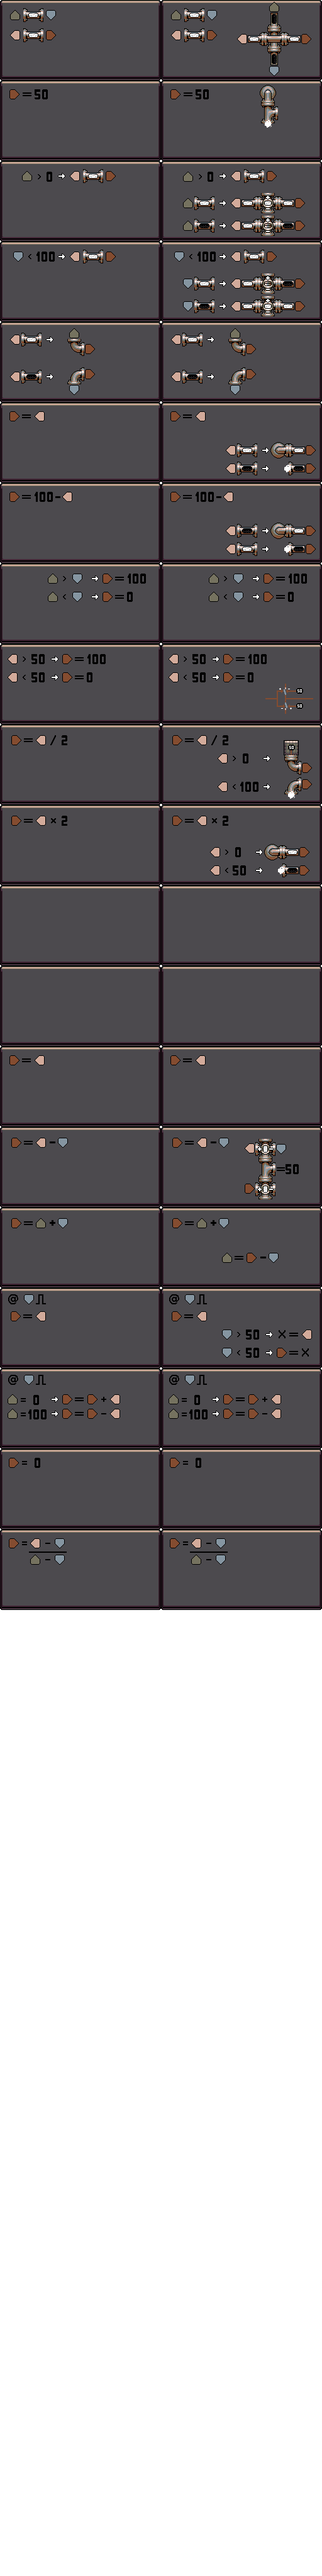
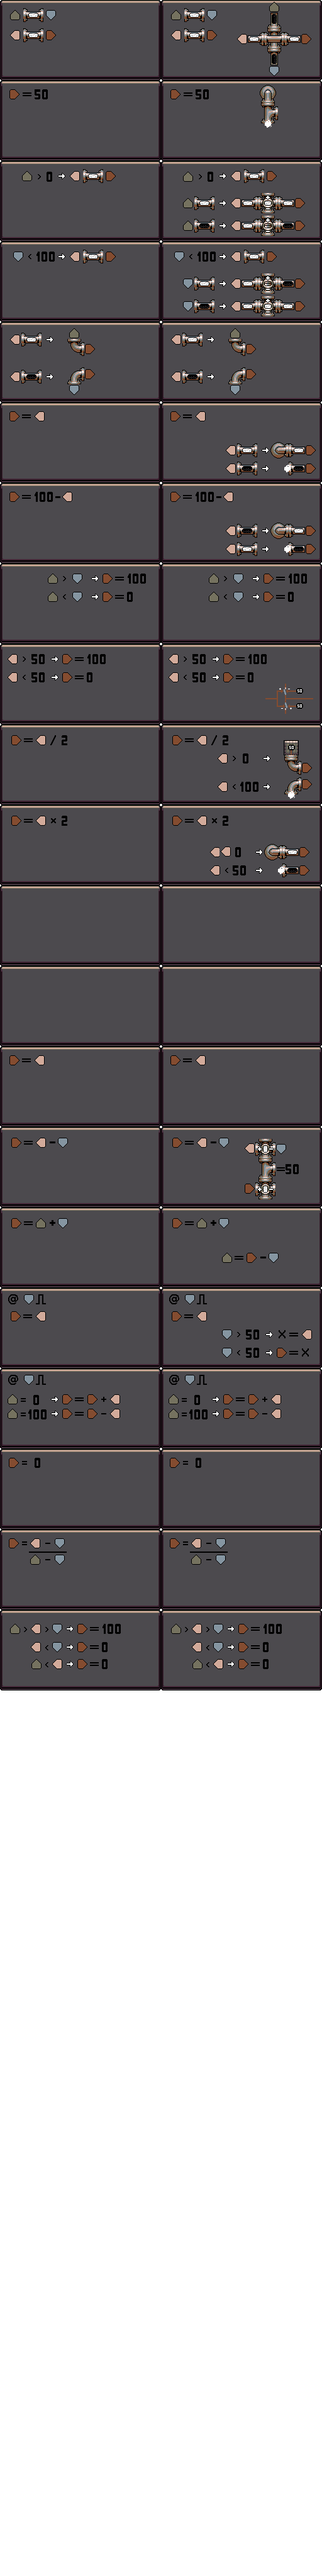
Levels up to Latch10

Changed region(s): [[0.0, 0.625, 1.0, 0.6562]]

diff --git a/Level.cpp b/Level.cpp
@@ -942,6 +942,7 @@ void Level::init_tests(SaveObjectMap* omap)
         case 19:                                                    // zoom
             name = "Zoom";
             connection_mask = CONMASK_N | CONMASK_W | CONMASK_S | CONMASK_E;
+            level_version = 10;
             NEW_TEST;// N   E   S   W
             NEW_POINT(100,  0,  0,  0);
             NEW_POINT(100,  0,  0,  0);
@@ -976,10 +977,76 @@ void Level::init_tests(SaveObjectMap* omap)
             NEW_POINT( 60,  0, 40, 40);
             NEW_POINT( 60,100, 40, 60);
             break;
+        case 20:
+            name = "Flow Detector";
+            connection_mask = CONMASK_N | CONMASK_W | CONMASK_S | CONMASK_E;
+            level_version = 1;
+            NEW_TEST;// N   E   S   W
+            NEW_POINT(100,  0,  0,  0);
+            NEW_TEST;
+            NEW_POINT(100,  0,  0,  0);
+            NEW_POINT(100,100,  0, 50);
+            NEW_TEST;
+            NEW_POINT(100,100,  0, 50);
+            NEW_POINT( 50,  0,  0, 80);
+            NEW_TEST;
+            NEW_POINT( 50,  0,  0, 80);
+            NEW_POINT( 50,100,  0, 30);
+            NEW_TEST;
+            NEW_POINT( 50,100,  0, 30);
+            NEW_POINT(100,  0, 50, 30);
+            NEW_TEST;
+            NEW_POINT(100,  0, 50, 30);
+            NEW_POINT(100,100, 50, 80);
+            NEW_TEST;
+            NEW_POINT(100,100, 50, 80);
+            NEW_POINT( 70,  0, 50, 80);
+            NEW_TEST;
+            NEW_POINT( 70,  0, 50, 80);
+            NEW_POINT( 70,100, 50, 60);
+            break;
 
-        case 20:                                                    // Latch2
+        case 21:
+            name = "LatchE";
+            connection_mask = CONMASK_N | CONMASK_W | CONMASK_S | CONMASK_E;
+            level_version = 1;
+            NEW_TEST;// N   E   S   W
+            NEW_POINT(100,  0,  0,  0);
+            NEW_POINT(100,  0,100,  0);
+            NEW_POINT(100,  0,  0,  0);
+            NEW_TEST;
+            NEW_POINT(100,  0,  0, 70);
+            NEW_POINT(100,  0,100, 70);
+            NEW_POINT(100, 70,  0, 70);
+            NEW_POINT(100, 70,  0, 20);
+            NEW_TEST;
+            NEW_POINT(  0, 70,  0, 20);
+            NEW_POINT(  0, 70,100, 20);
+            NEW_POINT(  0, 70,  0, 20);
+            NEW_TEST;
+            NEW_POINT(100, 70,  0, 20);
+            NEW_POINT(100, 70,100, 20);
+            NEW_POINT(100, 20,  0, 20);
+            NEW_TEST;
+            NEW_POINT(100, 20,  0, 50);
+            NEW_TEST;
+            NEW_POINT(100, 20,100, 50);
+            NEW_TEST;
+            NEW_POINT(100, 50,  0, 50);
+            NEW_TEST;
+            NEW_POINT(  0, 50,  0, 30);
+            NEW_POINT(  0, 50,100, 30);
+            NEW_POINT(  0, 50,  0, 30);
+            NEW_TEST;
+            NEW_POINT(100, 70,  0, 30);
+            NEW_POINT(100, 70,100, 30);
+            NEW_POINT(100, 30,  0, 30);
+            break;
+
+        case 22:                                                    // Latch2
             name = "Latch2";
             connection_mask = CONMASK_N | CONMASK_W | CONMASK_S | CONMASK_E;
+            level_version = 1;
             NEW_TEST;// N   E   S   W
             NEW_POINT( 25,  0,  0,  0);
             NEW_POINT( 25,  0,100,  0);
@@ -1008,9 +1075,10 @@ void Level::init_tests(SaveObjectMap* omap)
             NEW_POINT( 75, 60,  0, 10);
             break;
 
-        case 21:                                                    // Latch5
+        case 23:                                                    // Latch5
             name = "Latch5";
             connection_mask = CONMASK_N | CONMASK_W | CONMASK_S | CONMASK_E;
+            substep_count = 30000;
             NEW_TEST;// N   E   S   W
             NEW_POINT( 10,  0,  0,  0);
             NEW_POINT( 10,  0,100,  0);
@@ -1040,22 +1108,77 @@ void Level::init_tests(SaveObjectMap* omap)
             NEW_TEST;
             NEW_POINT( 70,  0,  0, 20);
             NEW_POINT( 70,  0,100, 20);
+            NEW_POINT( 70, 20,  0, 20);
             NEW_POINT( 70, 20,  0, 40);
             NEW_TEST;
             NEW_POINT( 90,  0,  0, 40);
             NEW_POINT( 90,  0,100, 40);
+            NEW_POINT( 90, 40,  0, 40);
             NEW_POINT( 90, 40,  0, 80);
             NEW_TEST;
             NEW_POINT( 70, 20,  0, 20);
             NEW_TEST;
             NEW_POINT( 70,  0,  0, 60);
             NEW_POINT( 70,  0,100, 60);
+            NEW_POINT( 70, 60,  0, 60);
             NEW_POINT( 70, 60,  0, 10);
             NEW_TEST;
             NEW_POINT( 90, 40,  0, 10);
             break;
 
-        case 22:                                                    // end
+        case 24:                                                    // Latch10
+            name = "Latch10";
+            connection_mask = CONMASK_N | CONMASK_W | CONMASK_S | CONMASK_E;
+            substep_count = 30000;
+            NEW_TEST;// N   E   S   W
+            NEW_POINT( 15,  0,  0,  0);
+            NEW_POINT( 15,  0,100,  0);
+            NEW_POINT( 15,  0,  0,  0);
+            NEW_TEST;
+            NEW_POINT( 15,  0,  0, 80);
+            NEW_TEST;
+            NEW_POINT( 15,  0,  0, 80);
+            NEW_POINT( 15,  0,100, 80);
+            NEW_POINT( 15, 80,  0, 80);
+            NEW_POINT( 15, 80,  0, 30);
+            NEW_TEST;
+            NEW_POINT( 25,  0,  0, 30);
+            NEW_POINT( 25,  0,100, 30);
+            NEW_POINT( 25, 30,  0, 30);
+            NEW_TEST;
+            NEW_POINT( 15, 80,  0, 60);
+            NEW_TEST;
+            NEW_POINT( 25, 30,  0, 60);
+            NEW_TEST;
+            NEW_POINT( 55,  0,  0, 40);
+            NEW_POINT( 55,  0,100, 40);
+            NEW_POINT( 55, 40,  0, 40);
+            NEW_POINT( 25, 30,  0, 10);
+            NEW_TEST;
+            NEW_POINT( 55, 40,  0, 80);
+            NEW_TEST;
+            NEW_POINT( 75,  0,  0, 20);
+            NEW_POINT( 75,  0,100, 20);
+            NEW_POINT( 75, 20,  0, 20);
+            NEW_POINT( 75, 20,  0, 40);
+            NEW_TEST;
+            NEW_POINT( 95,  0,  0, 40);
+            NEW_POINT( 95,  0,100, 40);
+            NEW_POINT( 95, 40,  0, 40);
+            NEW_POINT( 95, 40,  0, 80);
+            NEW_TEST;
+            NEW_POINT( 75, 20,  0, 20);
+            NEW_TEST;
+            NEW_POINT( 75,  0,  0, 60);
+            NEW_POINT( 75,  0,100, 60);
+            NEW_POINT( 75, 60,  0, 60);
+            NEW_POINT( 75, 60,  0, 10);
+            NEW_TEST;
+            NEW_POINT( 95, 40,  0, 10);
+            break;
+
+
+        case 25:                                                    // end
             name = "Not yet done...";
             connection_mask = CONMASK_W | CONMASK_E;
             NEW_TEST;// N   E   S   W

diff --git a/GameState.cpp b/GameState.cpp
@@ -119,11 +119,6 @@ GameState::GameState(const char* filename)
     Mix_PlayMusic(music, -1);
     
     top_level_allowed = edited_level_set->top_playable();
-    
-    for (unsigned i = 0; i < LEVEL_COUNT; i++)
-        if (level_set->is_playable(i))
-            score_submit(i, false);
-
 }
     
 SaveObject* GameState::save(bool lite)
@@ -293,7 +288,7 @@ void GameState::score_submit(unsigned level, bool sync)
     SaveObjectMap* omap = new SaveObjectMap;
     omap->add_string("command", "score_submit");
     omap->add_num("level_index", level);
-    omap->add_item("levels", edited_level_set->save(level));
+    omap->add_item("levels", edited_level_set->levels[level]->best_design->save(true));
     omap->add_num("steam_id", steam_id);
     omap->add_string("steam_username", steam_username);
     post_to_server(omap, sync);
@@ -409,8 +404,8 @@ void GameState::advance()
     if (current_level->best_score_set && !current_level_set_is_inspected)
     {
         current_level->best_score_set = false;
-        score_submit(current_level_index, false);
         edited_level_set->record_best_score(current_level_index);
+        score_submit(current_level_index, false);
 
     }
 }
@@ -1577,6 +1572,8 @@ void GameState::render()
         std::string tip_str(tooltip_string);
         XYPos tip_size = get_text_size(tip_str) + XYPos(2,0);
         XYPos tip_pos = mouse / scale - XYPos(tip_size.x, 0);
+        if (tip_pos.x < 0)
+            tip_pos.x = 0;
         {
             SDL_Rect src_rect = {503, 83, 1, 1};
             SDL_Rect dst_rect = {tip_pos.x * scale, tip_pos.y * scale, tip_size.x * scale, tip_size.y * scale};

diff --git a/ComPressureServer.cpp b/ComPressureServer.cpp
@@ -330,7 +330,7 @@ public:
             level_set->levels[current_level]->best_score = 0;
             init_level = true;
         }
-        level_set->levels[current_level]->advance(10000);
+        level_set->levels[current_level]->advance(1000);
         if (level_set->levels[current_level]->score_set)
         {
             current_level++;

diff --git a/Level.h b/Level.h
@@ -6,7 +6,7 @@
 #include <stdlib.h>
 
 
-#define LEVEL_COUNT 22
+#define LEVEL_COUNT 25
 #define HISTORY_POINT_COUNT 200
 
 
@@ -97,7 +97,7 @@ public:
     
     bool touched = false;
     bool score_set = false;
-    bool best_score_set = false;
+    bool best_score_set = true;
 
     unsigned test_index = 0;
     unsigned sim_point_index = 0;
